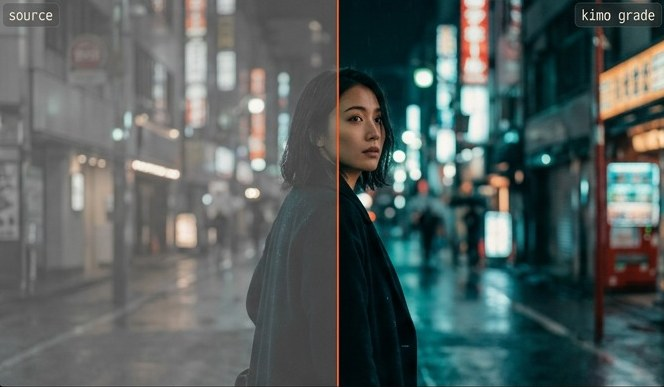
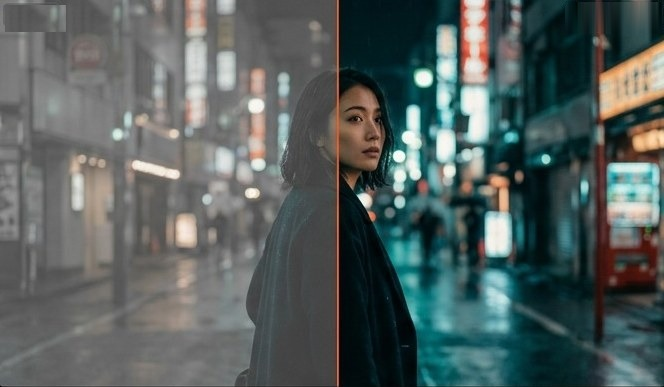
gui: m15 grading 1:1 (conic wheels, parade, nodes/thumbs) + live 3-way balance from grade calls; HUD tag names the screen

Changed region(s): [[0.8735, 0.0, 1.0, 0.093], [0.0, 0.0, 0.1205, 0.093]]

diff --git a/crates/kimo-gui/ui/panels.js b/crates/kimo-gui/ui/panels.js
@@ -126,6 +126,7 @@ function overlay(ov, w, h) {
       for (let i = 1; i < 8; i++) { const x = w * i / 8; s += line(Array.from({ length: 21 }, (_, j) => [x, h * j / 20])); }
       for (let i = 1; i < 6; i++) { const y = h * i / 6; s += line(Array.from({ length: 21 }, (_, j) => [w * j / 20, y])); }
     }
+    if (o.rect) { const [x, y, rw, rh] = o.rect; s += `<rect x="${px(x * w)}" y="${px(y * h)}" width="${px(rw * w)}" height="${px(rh * h)}" fill="none" stroke="var(--cream)" stroke-width="1.25" stroke-dasharray="5 3"/>` + (o.label ? `<text x="${px(x * w + 4)}" y="${px(y * h - 5)}" style="fill:var(--cream);font-family:var(--mono);font-size:11px">${E(o.label)}</text>` : ''); }
     if (o.crop) { const cw = w * o.crop, ch = h * o.crop; s += `<rect x="${px((w - cw) / 2)}" y="${px((h - ch) / 2)}" width="${px(cw)}" height="${px(ch)}" fill="none" stroke="var(--ember)" stroke-width="1.5" stroke-dasharray="6 4"/>`; }
     if (o.vline != null) s += `<line x1="${o.vline * w}" x2="${o.vline * w}" y1="0" y2="${h}" stroke="var(--ember)" stroke-width="2"/>`;
     if (o.quad && o.grid) {   // mesh tracker: the nx x ny lattice inside the quad (bilinear)
@@ -214,12 +215,12 @@ function kv({ spec, data, w, h }) {
 function block(b, w) {
   if (b.sec !== undefined) return `<div class="sec" ${b.h ? `style="height:${b.h}px"` : ''}>${E(b.sec)}</div>`;
   if (b.gap) return `<div style="height:${b.gap}px"></div>`;
-  if (b.list) return `<div class="list">${b.list.map((x, i) => `<div class="${i === b.sel ? 'sel' : ''}">${E(x)}</div>`).join('')}</div>`;
+  if (b.list) return `<div class="list">${b.list.map((x, i) => { const m = /^(\d+)\s+(.*)$/.exec(String(x)); return `<div class="${i === b.sel ? 'sel' : ''}">${m ? `<span class="n">${E(m[1])}</span>${E(m[2])}` : E(x)}</div>`; }).join('')}</div>`;
   if (b.code) return `<div class="code">${E(b.code)}</div>`;
   if (b.cap) return `<div class="cap"><span>${E(b.cap[0])}</span><span>${E(b.cap[1] || '')}</span></div>`;
   if (b.widget) return `<div class="widget${b.src ? ' img' : ''}" style="height:${b.h || 90}px${b.style ? ';' + b.style : ''}">${b.src ? `<img src="${E(b.src)}" alt="">` : (WIDGETS[b.widget] || (() => ''))(b, w, b.h || 90)}</div>`;
   if (b.html) return b.html;
-  const cls = ['row', b.from != null || b.ch ? 'ch' : '', b.chip ? 'chip' : '', b.emb ? 'emb' : '', b.bar ? 'bar' : ''].join(' ');
+  const cls = ['row', b.from != null || b.ch ? 'ch' : '', b.chip ? 'chip' : '', b.emb ? 'emb' : '', b.bar ? 'bar' : '', b.dim ? 'dim' : ''].join(' ');
   const v = b.from != null ? `<span class="from">${E(b.from)}</span><span class="arr">→</span>${E(b.v)}` : E(b.v);
   return `<div class="${cls}${F(b)}"${b.h ? ` style="height:${b.h}px"` : ''}><span class="k"${b.kStyle ? ` style="${b.kStyle}"` : ''}>${E(b.k)}</span><span class="v"${b.vStyle ? ` style="${b.vStyle}"` : ''}>${v}</span></div>`;
 }
@@ -285,9 +286,10 @@ const WIDGETS = {
     return `<svg viewBox="0 0 ${w} ${h}">${s}</svg>`;
   },
   thumbs(b, w, h) {
-    const n = b.items.length, gap = b.gap ?? 8, tw = (w - gap * (n - 1)) / n;
-    return `<div style="display:flex;gap:${gap}px;height:100%">` + b.items.map(t => `<div class="thumb ${t.sel ? 'sel' : ''}" style="flex:1;height:${t.label ? h - 18 : h}px">${t.src ? `<img src="${E(t.src)}">` : ''}</div>`).join('') + '</div>' +
-      (b.items.some(t => t.label) ? `<div style="display:flex;gap:${gap}px;margin-top:3px">${b.items.map(t => `<span style="flex:1;text-align:center;font-family:var(--mono);font-size:10.5px;color:var(--dim)">${E(t.label || '')}</span>`).join('')}</div>` : '');
+    const n = b.items.length, gap = b.tgap ?? 8, lh = b.labH ?? 18;   // items may carry their own width (m15: the selected clip is wider)
+    const W = t => t.w ? `flex:none;width:${t.w}px` : 'flex:1';
+    return `<div style="display:flex;gap:${gap}px;height:100%;align-items:flex-start">` + b.items.map(t => `<div class="thumb ${t.sel ? 'sel' : ''}" style="${W(t)};height:${t.h ?? (b.items.some(x => x.label) ? h - lh : h)}px">${t.src ? `<img src="${E(t.src)}">` : ''}</div>`).join('') + '</div>' +
+      (b.items.some(t => t.label) ? `<div style="display:flex;gap:${gap}px;position:absolute;left:0;right:0;bottom:0;height:${lh}px;align-items:center">${b.items.map(t => `<span style="${W(t)};text-align:center;font-family:var(--mono);font-size:var(--thl-fs,10.5px);color:var(--thl-c,var(--dim))">${E(t.label || '')}</span>`).join('')}</div>` : '');
   },
 };
 
@@ -741,27 +743,40 @@ function wheels({ spec, data, w, h }) {
   const o = spec.opts || {};
   const pw = o.paradeW ?? Math.round(w * .36);
   const ww = w - pw, n = (data.wheels || []).length || 3;
-  const r = o.r ?? Math.min(ww / n / 2 - 22, (h - 70) / 2);
+  const r = o.r ?? Math.min(ww / n / 2 - 22, (h - 70) / 2), sw = o.ringW ?? 3;
+  // ring: a conic sweep drawn as short arcs (SVG has no conic gradient); stops are [angle°, colour] counter-clockwise from 3 o'clock
+  const RING = [[0, '#bcbcde'], [45, '#cea8db'], [90, '#d8a9cd'], [135, '#e3c4c1'], [180, '#dbd4b8'], [225, '#c5e1bb'], [270, '#b6d8bf'], [315, '#abd0d6'], [360, '#bcbcde']];
+  const RINGE = [[0, '#dca98c'], [45, '#f99271'], [90, '#f3743d'], [135, '#f2ac7b'], [180, '#d8ca99'], [225, '#c1d397'], [270, '#bad09f'], [315, '#c7be9f'], [360, '#dca98c']];
+  const hex = c => [1, 3, 5].map(k => parseInt(c.slice(k, k + 2), 16));
+  const at = (st, a) => { let k = 0; while (k < st.length - 2 && st[k + 1][0] <= a) k++; const [a0, c0] = st[k], [a1, c1] = st[k + 1], t = (a - a0) / (a1 - a0), A = hex(c0), B = hex(c1); return `rgb(${A.map((v, j) => Math.round(v + (B[j] - v) * t)).join(',')})`; };
+  const conic = (cx, cy, st) => { let s = ''; const N = 72; for (let k = 0; k < N; k++) { const a0 = k * 360 / N, a1 = (k + 1.15) * 360 / N, P = a => [px(cx + Math.cos(a * Math.PI / 180) * r), px(cy - Math.sin(a * Math.PI / 180) * r)]; const [x0, y0] = P(a0), [x1, y1] = P(a1); s += `<path d="M${x0} ${y0}A${r} ${r} 0 0 0 ${x1} ${y1}" stroke="${at(st, (k + .5) * 360 / N)}"/>`; } return `<g fill="none" stroke-width="${sw}">${s}</g>`; };
   let s = `<defs><radialGradient id="whc" cx="50%" cy="50%" r="50%"><stop offset="0" stop-color="#1b1a19"/><stop offset="1" stop-color="#121211"/></radialGradient>
    <linearGradient id="ring" x1="0" y1="0" x2="1" y2="1"><stop offset="0" stop-color="#7a5ad8"/><stop offset=".35" stop-color="#3fa3a0"/><stop offset=".7" stop-color="#9fbf6a"/><stop offset="1" stop-color="#e8c79a"/></linearGradient>
    <linearGradient id="ringE" x1="0" y1="1" x2="1" y2="0"><stop offset="0" stop-color="#e8c79a"/><stop offset="1" stop-color="#ff5a23"/></linearGradient></defs>`;
-  (data.wheels || []).forEach((W, i) => {
-    const cx = ww / n * (i + .5), cy = (o.cy ?? (r + 34));
-    s += `<text x="${cx}" y="${o.labY ?? 18}" font-size="12" fill="var(--text)" text-anchor="middle">${E(W.name)}</text>`;
-    s += `<circle cx="${cx}" cy="${cy}" r="${r}" fill="url(#whc)" stroke="url(#${W.em ? 'ringE' : 'ring'})" stroke-width="3"/>`;
-    s += `<line x1="${cx - r + 8}" x2="${cx + r - 8}" y1="${cy}" y2="${cy}" stroke="#262624"/><line x1="${cx}" x2="${cx}" y1="${cy - r + 8}" y2="${cy + r - 8}" stroke="#262624"/>`;
+  const lfs = o.labFs ?? 12, vfs = o.valFs ?? 11.5;
+  const WH = data.wheels || [{ name: 'Lift', vals: ['0.00', '0.00', '0.00'] }, { name: 'Gamma', vals: ['0.00', '0.00', '0.00'] }, { name: 'Gain', vals: ['0.00', '0.00', '0.00'] }];   // neutral until a grade lands
+  WH.forEach((W, i) => {
+    const cx = o.cx ? o.cx[i] : ww / n * (i + .5), cy = (o.cy ?? (r + 34));
+    s += `<text x="${cx}" y="${o.labY ?? 18}" font-size="${lfs}" fill="var(--wl-c,var(--text))" text-anchor="middle">${E(W.name)}</text>`;
+    if (o.conic) s += `<circle cx="${cx}" cy="${cy}" r="${r}" fill="${o.disc ?? '#0e0e0e'}"/>` + conic(cx, cy, W.em ? RINGE : RING);
+    else s += `<circle cx="${cx}" cy="${cy}" r="${r}" fill="url(#whc)" stroke="url(#${W.em ? 'ringE' : 'ring'})" stroke-width="${sw}"/>`;
+    const ci = r - sw / 2 - (o.cross ?? 8);
+    s += `<line x1="${cx - ci}" x2="${cx + ci}" y1="${cy}" y2="${cy}" stroke="${o.crossC ?? '#262624'}"/><line x1="${cx}" x2="${cx}" y1="${cy - ci}" y2="${cy + ci}" stroke="${o.crossC ?? '#262624'}"/>`;
     const [dx, dy] = W.dot || [0, 0];
-    s += `<circle cx="${px(cx + dx * r)}" cy="${px(cy - dy * r)}" r="4" fill="${W.em ? 'var(--ember)' : 'var(--cream)'}"/>`;
-    if (W.ring != null) { const a = W.ring * Math.PI / 180; s += `<circle cx="${px(cx + Math.cos(a) * r)}" cy="${px(cy - Math.sin(a) * r)}" r="4.5" fill="var(--ember)"/>`; }
-    s += `<text x="${cx}" y="${cy + r + 22}" font-size="11.5" text-anchor="middle">` + W.vals.map((v, k) => `<tspan dx="${k ? 10 : 0}" fill="${(W.em && k === 0) ? 'var(--ember-text)' : (W.cols && W.cols[k]) || 'var(--text)'}">${E(v)}</tspan>`).join('') + '</text>';
+    s += `<circle cx="${px(cx + dx * r)}" cy="${px(cy - dy * r)}" r="${o.dotR ?? 4}" fill="${W.em ? 'var(--ember)' : 'var(--cream)'}"/>`;
+    if (W.ring != null) { const a = W.ring * Math.PI / 180; s += `<circle cx="${px(cx + Math.cos(a) * r)}" cy="${px(cy - Math.sin(a) * r)}" r="${o.knobR ?? 4.5}" fill="var(--ember)"${o.conic ? ' stroke="#0e0e0e" stroke-width="1.5"' : ''}/>`; }
+    s += `<text x="${cx}" y="${o.valY ?? (cy + r + 22)}" font-size="${vfs}" text-anchor="middle">` + W.vals.map((v, k) => `<tspan dx="${k ? (o.valGap ?? 10) : 0}" fill="${(W.em && k === 0) ? 'var(--ember-text)' : (W.cols && W.cols[k]) || 'var(--wv-c,var(--text))'}">${E(v)}</tspan>`).join('') + '</text>';
   });
-  // parade
-  const x0 = ww + 34, x1 = w - 12, y0 = o.py0 ?? 22, y1 = h - (o.pyb ?? 22);
-  s += `<line x1="${ww}" x2="${ww}" y1="14" y2="${h - 14}" stroke="var(--line)"/>`;
-  s += [1023, 768, 512, 256, 0].map((v, i) => `<text x="${x0 - 6}" y="${px(y0 + i * (y1 - y0) / 4 + 3)}" font-size="9.5" fill="var(--dim)" text-anchor="end">${v}</text><line x1="${x0}" x2="${x1}" y1="${px(y0 + i * (y1 - y0) / 4)}" y2="${px(y0 + i * (y1 - y0) / 4)}" stroke="#1a1a19"/>`).join('');
-  const cw = (x1 - x0) / 3;
-  const cols = ['#e2553f', '#5fbf6a', '#4f7fe0'], lifts = [.05, 0, -.04];
-  cols.forEach((c, k) => s += `<svg x="${x0 + k * cw + 3}" y="${y0}" width="${cw - 6}" height="${y1 - y0}">${lumaTrace(cw - 6, y1 - y0, 11 + k, c, .55, u => .42 + lifts[k] + .2 * Math.sin(u * 5 + k))}</svg>`);
+  // parade: the engine's scope image when the data carries one, else the drawn luma traces
+  const x0 = o.px0 ?? (ww + 34), x1 = w - (o.pxr ?? 12), y0 = o.py0 ?? 22, y1 = h - (o.pyb ?? 22);
+  if (!o.noSep) s += `<line x1="${ww}" x2="${ww}" y1="14" y2="${h - 14}" stroke="var(--line)"/>`;
+  if (data.parade && data.parade.src) s += `<image href="${E(data.parade.src)}" x="${x0}" y="${y0 - (o.imgPadT ?? 0)}" width="${x1 - x0}" height="${y1 - y0 + (o.imgPadT ?? 0) + (o.imgPadB ?? 0)}" preserveAspectRatio="none"/>`;
+  s += [1023, 768, 512, 256, 0].map((v, i) => `<text x="${x0 - (o.plabGap ?? 6)}" y="${px(y0 + i * (y1 - y0) / 4 + (o.plabDy ?? 3))}" font-size="${o.plabFs ?? 9.5}" fill="var(--dim)" text-anchor="end" style="font-family:var(--plab-font,inherit)">${v}</text>` + (data.parade && data.parade.src ? '' : `<line x1="${x0}" x2="${x1}" y1="${px(y0 + i * (y1 - y0) / 4)}" y2="${px(y0 + i * (y1 - y0) / 4)}" stroke="#1a1a19"/>`)).join('');
+  if (!(data.parade && data.parade.src)) {
+    const cw = (x1 - x0) / 3;
+    const cols = ['#e2553f', '#5fbf6a', '#4f7fe0'], lifts = [.05, 0, -.04];
+    cols.forEach((c, k) => s += `<svg x="${x0 + k * cw + 3}" y="${y0}" width="${cw - 6}" height="${y1 - y0}">${lumaTrace(cw - 6, y1 - y0, 11 + k, c, .55, u => .42 + lifts[k] + .2 * Math.sin(u * 5 + k))}</svg>`);
+  }
   return head(spec, data) + `<svg style="position:absolute;inset:0" width="${w}" height="${h}" viewBox="0 0 ${w} ${h}">${s}</svg>`;
 }
 

diff --git a/crates/kimo-gui/ui/router.js b/crates/kimo-gui/ui/router.js
@@ -17,7 +17,7 @@ export const FAMILIES = [
   ['edit', /^(cut|split|blade|razor|trim|extend|ripple|slip|slide|move_clip|delete_clip|lift|roll)/],
   ['effects', /^(add_effect|apply_effect|set_effect|add_transition|remove_effect|add_speed|set_posterize|add_adjustment)/],
   ['transform', /^(set_property|set_clip_property|set_props?$|transform|set_transform|keyframe|set_keyframe|add_keyframe|scale|rotate|position|set_motion|add_null|set_parent|set_expression)/],
-  ['color', /^(grade|color|colour|lut|apply_lut|set_lut|ocio|render_scope|analyze_exposure|wheel|curve|node_|hdr|render_ocio|render_exposure|render_gamut)/],
+  ['color', /^(grade|color|colour|lut|apply_lut|set_lut|ocio|render_scope|analyze_exposure|wheel|curve|node_|hdr|render_ocio|render_exposure|render_gamut|set_grade_node|set_grade_graph|pick_white_balance|match_grade|match_color|set_white_balance)/],
   ['audio', /^(set_|add_|apply_|auto_|measure_|normalize_|analyze_)?(mix|audio|gain|fader|mute|solo|pan|compress|eq|limiter|limit|loudness|duck|stem|bus|route_)|^track_beats$/],
   ['text', /^(caption|subtitle|add_caption|add_subtitle|edit_caption|transcript_edit|transcri|add_title|title|text|set_text|add_text|set_caption|validate_captions)/],
   ['3d', /^(add_mesh|mesh|model|extrude|bevel|light|camera|particle|emit|simulate|scene|render_3d|add_light|set_light|solve_camera|track|set_camera|add_scene3d|instantiate_gltf|generate_mesh_primitive|contour_sdf_graph|set_mesh_pin|derive_vertex_tangents|fit_track_homography|ecc_refine_track|decompose_track_homography|corner_disagreement|lk_residual_audit|validate_planar_track|undistort_clip|stabilize|apply_camera_solve|pin_layer|set_corner_pin)/],
@@ -99,8 +99,67 @@ function inspectorDiff(state, MODES, ev, fam) {
   return true;
 }
 
+
+// Grading (m15): the 3-way balance follows the call's own lift/gamma/gain numbers — color_wheels / grade
+// effects (lift_r…gain_b), grade-graph nodes carrying the same params, and engines that send lift/gamma/gain
+// directly. Each wheel's dot is its colour balance (channel deltas around the hue ring), the values are the
+// R/G/B deltas from neutral, and the wheel the call changed turns ember. White-balance picks and shot matches
+// draw the regions they sampled on the viewer.
+const WHEEL_DEF = { lift: 0, gamma: 1, gain: 1 };
+const HUE = { r: 100, g: 220, b: 340 };   // where each channel pulls on the ring (degrees, ccw from 3 o'clock)
+function gradeOps(state, MODES, ev) {
+  if (ev.phase !== 'complete') return false;
+  const P = ev.payload || {}, tn = String(ev.tool_name).toLowerCase();
+  const A = P.args || (state._gradeArgs && state._gradeArgs[ev.call_id]) || {};
+  const R = P.result && typeof P.result === 'object' ? P.result : {};
+  const prm = (A.params && typeof A.params === 'object' ? A.params : null) || (A.node && A.node.params) || A;
+  const kind = String(A.kind ?? (A.node && A.node.kind) ?? '').toLowerCase();
+  let hit = false;
+  const wheelMode = Object.entries(MODES).find(([, M]) => Object.values(M.panels).some(sp => sp.kind === 'wheels'));
+  if (wheelMode) {
+    const V = state.views[wheelMode[0]] || (state.views[wheelMode[0]] = {});
+    const key = Object.entries(MODES[wheelMode[0]].panels).find(([, sp]) => sp.kind === 'wheels')[0];
+    const B = V[key] || (V[key] = {});
+    const G = B._g || (B._g = { lift: { r: 0, g: 0, b: 0 }, gamma: { r: 1, g: 1, b: 1 }, gain: { r: 1, g: 1, b: 1 } });
+    let changed = null;
+    for (const w of ['lift', 'gamma', 'gain']) {
+      for (const c of ['r', 'g', 'b']) {
+        const v = numOf(prm[`${w}_${c}`]);
+        if (v != null) { G[w][c] = v; changed = w; }
+      }
+      const m = numOf(prm[w]);   // a master value: same delta on all three channels
+      if (m != null && (kind === '' || /grade|wheel|lgg|primar/.test(kind) || tn === 'grade')) {
+        const base = String(prm[w]).trim().match(/^[+-]/) ? WHEEL_DEF[w] + m : m;
+        for (const c of ['r', 'g', 'b']) G[w][c] = base; changed = w;
+      }
+    }
+    if (changed) {
+      const fmt = d => (d > 0.0049 ? '+' : d < -0.0049 ? '-' : '') + Math.abs(d).toFixed(2);
+      B.wheels = ['lift', 'gamma', 'gain'].map(w => {
+        const d = ['r', 'g', 'b'].map(c => G[w][c] - WHEEL_DEF[w]), mean = (d[0] + d[1] + d[2]) / 3;
+        let x = 0, y = 0; ['r', 'g', 'b'].forEach((c, k) => { const a = HUE[c] * Math.PI / 180; x += (d[k] - mean) * Math.cos(a); y += (d[k] - mean) * Math.sin(a); });
+        const mag = Math.hypot(x, y), k = Math.min(.82, mag * 6) / (mag || 1);
+        const em = w === changed;
+        return { name: w[0].toUpperCase() + w.slice(1), dot: [x * k, y * k], em, ring: em && Math.abs(mean) > 1e-6 ? (mean > 0 ? 70 : 250) : null, vals: d.map(fmt) };
+      });
+      B._flash = now(); hit = true;
+    }
+  }
+  // regions the call sampled: the neutral patch of a white-balance pick, the source/reference of a match
+  const [mode, V2] = modeViews(state, MODES, ev);
+  const vw = V2.viewer || (V2.viewer = {});
+  const box = (r, label) => Array.isArray(r) && r.length === 4 && r.every(v => numOf(v) != null) ? { rect: r.map(numOf), label } : null;
+  const regs = [];
+  if (tn === 'pick_white_balance' && [A.x, A.y, A.w, A.h].every(v => numOf(v) != null)) regs.push(box([A.x, A.y, A.w, A.h], 'neutral'));
+  if (tn === 'match_grade' || tn === 'match_color') { const s1 = box(A.source_region, 'source'), s2 = box(A.ref_region, A.ref_clip_id ? `ref · ${A.ref_clip_id}` : 'ref'); if (s1) regs.push(s1); if (s2) regs.push(s2); }
+  if (regs.length) { vw.overlay = (vw.overlay || []).filter(o => o._kind !== tn).concat(regs.filter(Boolean).map(o => ({ ...o, _call: ev.call_id, _kind: tn }))); hit = true; }
+  if ((tn === 'match_grade' || tn === 'match_color' || tn === 'pick_white_balance') && !regs.length) { vw.wipe = 1; hit = true; }
+  return hit;
+}
+
 function hud(state, ev, fam, text) {
-  state.hud = { fam, tool: ev.tool_name, text: text || ev.tool_name, phase: ev.phase, t: now() };
+  const shown = fam === 'inspect' ? fam : ((state.explicitMode ? null : inferMode(String(ev.tool_name))) || state.mode || fam);   // the tag names the screen, not the router family
+  state.hud = { fam: shown, family: fam, tool: ev.tool_name, text: text || ev.tool_name, phase: ev.phase, t: now() };
 }
 
 // Timeline effects of edit / ingest / effects / audio / text tools.
@@ -354,6 +413,8 @@ export function route(ev, state, MODES) {
   if (fam === 'inspect') return inspectOps(state, MODES, ev, id);
   if (fam === 'transform' && (ev.phase === 'start' || ev.phase === 'complete')) xfOps(state, MODES, ev);
   if (fam === '3d') sceneOps(state, MODES, ev);
+  if (ev.phase === 'start' && (fam === 'color' || fam === 'effects')) (state._gradeArgs || (state._gradeArgs = {}))[ev.call_id] = (ev.payload || {}).args || {};
+  if ((fam === 'color' || fam === 'effects') && gradeOps(state, MODES, ev)) ev._gradeDone = true;
   const T = ev.target || {}, P = ev.payload || {};
   const param = T.param || P.param, val = P.to ?? P.value;
   const args = { ...(T.clip_id ? { clip: T.clip_id } : {}), ...(param && val != null ? { [param]: fmtVal(val, param) } : {}) };

diff --git a/crates/kimo-gui/ui/modes.js b/crates/kimo-gui/ui/modes.js
@@ -64,9 +64,9 @@ export const MODES = {
       res: { kind: 'keys', title: 'Track residual', opts: { x0: 203, xr: 15, rulerY: 10, graphY: 36, graphH: 78.5, laneY: 120, laneH: 44, chipX: 56, chipW: 122, barH: 16 } } } },
   modelling: { activity: 'modelling', top: 46, foot: 0,
     vars: { '--radius': '8px', '--panel': '#141412', '--ph-pad': '16px 15px 0 15px', '--pt-fs': '18px', '--sub-top': '43px', '--sub-fs': '18px', '--sub-c': '#7e7e79',
-      '--call-fs': '16.4px', '--call-ls': '0em', '--call-line': 'transparent', '--empty-pp': 'none', '--call-pl': '14px', '--call-pr': '17px', '--call-gap': '13px', '--ck-c': 'var(--cream)', '--ck-fs': '19px', '--ck-w': '18px',
+      '--call-fs': '16.4px', '--call-ls': '0em', '--empty-pp': 'none', '--call-pl': '14px', '--call-pr': '17px', '--call-gap': '13px', '--ck-c': 'var(--cream)', '--ck-fs': '19px', '--ck-w': '18px',
       '--fn': 'var(--cream)', '--args': 'var(--cream)', '--dur-fs': '16px', '--dur-w': '4ch', '--cur-text': '#dc9e82', '--cur-args': '#dc9e82', '--cur-dur': '#c4765e',
-      '--kv-fs': '18.4px', '--kv-row': '31.5px', '--klabel': 'var(--cream)', '--sec-fs': '18px', '--sec-h': '45px', '--sec-pb': '8px', '--vmeta-font': 'var(--sans)', '--vmeta-fs': '17.5px', '--res-fs': '17.5px' },
+      '--kv-fs': '18.4px', '--kv-row': '31.5px', '--klabel': 'var(--cream)', '--sec-fs': '18px', '--sec-h': '45px', '--sec-pb': '8px', '--vmeta-font': 'var(--sans)', '--vmeta-fs': '17.5px', '--res-fs': '17.5px', '--ember-text': '#c98a78' },
     rects: { agent: [12, 55, 377, 330], stack: [12, 357, 377, 758], viewer: [388, 55, 1074, 580], insp: [1084, 55, 1363, 580], prof: [388, 592, 1363, 758] },
     panels: { agent: AG({ rowH: 35, top: 53 }), stack: { kind: 'stack', title: 'Stack', opts: { center: true, y0: 62, step: 59, nodeH: 34, fs: 16.5 } },
       viewer: { kind: 'viewer', opts: { pad: [0, 0, 0, 0], metaY: 495, metaL: 16, metaR: 19 } }, insp: { kind: 'kv', title: 'Inspector', opts: { secRule: true, top: 77.5 } },
@@ -88,17 +88,19 @@ export const MODES = {
     rects: { agent: [10, 55, 377, 480], viewer: [387, 55, 1070, 480], insp: [1080, 55, 1365, 741], keys: [10, 489, 1070, 741] },
     panels: { agent: AG({ count: true }), viewer: { kind: 'viewer', opts: { pad: [12, 12, 42, 12] } }, insp: { kind: 'kv', title: 'Inspector' },
       keys: { kind: 'keys', title: 'Mask keys', opts: { x0: 214, rulerY: 10, laneY: 42, laneH: 44, chipX: 56, chipW: 148 } } } },
-  scene3d: { activity: 'animating', top: 56, foot: 0, rightCls: 'big', vars: { '--brand-fs': '20px', '--proj-fs': '17px', '--logo': '26px' },
+  scene3d: { activity: 'animating', top: 56, foot: 0, rightCls: 'big', vars: { '--brand-fs': '20px', '--proj-fs': '17px', '--logo': '26px', '--chip-bg': 'transparent', '--chip-fs': '16px', '--chip-h': '30px', '--chip-px': '0px' },
     rects: { agent: [14, 66, 329, 290], scene: [14, 305, 329, 548], viewer: [344, 66, 1080, 505], insp: [1095, 66, 1360, 548], keys: [14, 563, 1360, 756] },
     panels: { agent: AG(), scene: { kind: 'tree', title: 'Scene' }, viewer: { kind: 'viewer', opts: { pad: [0, 0, 0, 0] } }, insp: { kind: 'kv', title: 'Inspector' },
-      keys: { kind: 'keys', title: 'Keyframes', opts: { x0: 350, rulerY: 58, laneY: 80, laneH: 34, stripY: 8, stripH: 46, chipW: 0 } } } },
+      keys: { kind: 'keys', title: 'Keyframes', opts: { x0: 350, rulerY: 58, laneY: 80, laneH: 34, stripY: 8, stripH: 46, chipX: 14, chipW: 310 } } } },
   export: { activity: 'rendering', top: 44, foot: 0, rightCls: 'chipclock',
     rects: { agent: [11, 50, 345, 759], viewer: [357, 50, 1051, 535], exp: [1063, 50, 1364, 535], renders: [357, 547, 1364, 759] },
     panels: { agent: AG({ checkRight: true }), viewer: { kind: 'viewer', opts: { pad: [10, 10, 166, 10], thumbY: 400, thumbH: 60 } }, exp: { kind: 'kv', title: 'Export', opts: { lines: true } },
       renders: { kind: 'renders', title: 'Renders' } } },
   grading: { activity: 'grading', top: 48, foot: 0, cls: 'lab-mono',
+    vars: { '--title-font': 'var(--sans)', '--pt-fs': '19px', '--call-fs': '15.6px', '--call-ls': '-0.07em', '--kv-row': '39.5px', '--ch-label': 'var(--ember-text)', '--li-h': '39.2px', '--li-fs': '15.5px', '--li-c': 'var(--cream)', '--list-border': '0', '--list-sep': 'var(--line2)', '--li-sel-r': '5px', '--thl-fs': '14px', '--thl-c': 'var(--cream)', '--wl-c': 'var(--cream)', '--wv-c': 'var(--cream)', '--sec-line': 'transparent', '--line2': '#272725', '--call-line': 'transparent', '--klabel': 'var(--cream)', '--kv-fs': '16px', '--sec-font': 'var(--mono)', '--grade-title-font': 'var(--mono)', '--plab-font': 'var(--sans)', '--tag-font': 'var(--mono)', '--tag-fs': '12.5px', '--tag-h': '21px', '--tag-px': '6px', '--tag-r': '4px', '--tag-bg': 'rgba(70,70,66,.62)', '--call-pl': '12px' },
     rects: { agent: [10, 60, 392, 505], viewer: [404, 60, 1094, 505], grade: [1106, 60, 1364, 759], bottom: [10, 516, 1094, 759] },
-    panels: { agent: AG(), viewer: { kind: 'viewer', opts: { pad: [12, 12, 44, 12] } }, grade: { kind: 'kv', title: 'Grade' }, bottom: { kind: 'wheels' } } },
+    panels: { agent: AG({ rowH: 38.6, top: 36.8 }), viewer: { kind: 'viewer', opts: { pad: [9, 8, 46, 8] } }, grade: { kind: 'kv', title: 'Grade', opts: { lines: true, topLine: true, top: 71 } },
+      bottom: { kind: 'wheels', opts: { conic: true, noSep: true, cx: [115.5, 341.4, 568.5], cy: 119.2, r: 64.5, ringW: 8.5, labY: 32.8, labFs: 18, valY: 224.2, valFs: 15.5, valGap: 9, dotR: 8, knobR: 9, cross: 6, crossC: '#34342f', px0: 734.4, pxr: 1.1, py0: 22.3, pyb: 20.2, imgPadT: 6.4, imgPadB: 6.6, plabGap: 9, plabFs: 14, plabDy: 5 } } } },
 };
 
 // Engines that do not announce a mode still drive the view: the tool name

diff --git a/crates/kimo-gui/ui/app.css b/crates/kimo-gui/ui/app.css
@@ -112,7 +112,7 @@ body{color:var(--cream);font-family:var(--sans);font-size:var(--fs);
 .frame img{position:absolute;inset:0;width:100%;height:100%;object-fit:cover;display:block}
 .frame .ph-frame{position:absolute;inset:0;background:repeating-linear-gradient(135deg,#121211 0 8px,#0f0f0e 8px 16px)}
 .frame svg.ov{position:absolute;inset:0;width:100%;height:100%}
-.tag{position:absolute;padding:0 11px;height:30px;line-height:30px;border-radius:6px;background:rgba(78,74,68,.86);
+.tag{position:absolute;padding:0 var(--tag-px,11px);height:var(--tag-h,30px);line-height:var(--tag-h,30px);border-radius:var(--tag-r,6px);background:var(--tag-bg,rgba(78,74,68,.86));
   color:var(--cream);font-family:var(--tag-font,var(--sans));font-size:var(--tag-fs,16px);white-space:nowrap}
 .vmeta{position:absolute;left:14px;right:14px;height:22px;display:flex;align-items:center;font-size:var(--vmeta-fs,var(--fs-s));color:var(--dim);font-family:var(--vmeta-font,var(--mono))}
 .vmeta .tc{position:absolute;left:50%;transform:translateX(-50%);font-family:var(--mono);font-weight:var(--tc-w,600);color:var(--tc-c,var(--cream));font-size:var(--tc-fs,17px)}
@@ -126,7 +126,7 @@ body{color:var(--cream);font-family:var(--sans);font-size:var(--fs);
 
 /* ---------- inspector key/value ---------- */
 .kv{position:absolute;inset:0;padding:0 15px;overflow:hidden}
-.kv .sec{height:var(--sec-h,48px);display:flex;align-items:flex-end;padding-bottom:var(--sec-pb,9px);font-weight:600;font-size:var(--sec-fs,17px);color:var(--cream);font-family:var(--title-font,var(--sans))}
+.kv .sec{height:var(--sec-h,48px);display:flex;align-items:flex-end;padding-bottom:var(--sec-pb,9px);font-weight:600;font-size:var(--sec-fs,17px);color:var(--cream);font-family:var(--sec-font,var(--title-font,var(--sans)))}
 .kv .row{height:var(--kv-row,37px);display:flex;align-items:center;justify-content:space-between;white-space:nowrap;font-size:var(--kv-fs,16px)}
 /* a long value ("960 x 540 → 1080 x 1080", an output path) keeps a gap to its label and ellipsizes only at the panel edge */
 .kv .row{gap:14px} .kv .row .k{flex:none} .kv .row .v{min-width:0;overflow:hidden;text-overflow:ellipsis}
@@ -140,7 +140,7 @@ body{color:var(--cream);font-family:var(--sans);font-size:var(--fs);
 .kv .row.emb .v{color:var(--ember-text)}
 .kv .row.bar{position:relative}
 .kv .row.bar::before{content:"";position:absolute;left:-15px;top:4px;bottom:4px;width:3px;background:var(--ember)}
-.kv .list{border:1px solid var(--line);border-radius:5px;overflow:hidden;margin:4px 0}
+.kv .list{border:var(--list-border,1px solid var(--line));border-radius:5px;overflow:hidden;margin:4px 0}
 .kv .list div{height:var(--li-h,26px);display:flex;align-items:center;padding:0 10px;font-family:var(--li-font,var(--mono));font-size:var(--li-fs,12px);color:var(--li-c,var(--text))}
 .kv .list div.sel{background:var(--raise2);color:var(--cream)}
 .kv .code{background:var(--raise);border-radius:5px;padding:var(--code-pad,9px 11px);font-family:var(--mono);font-size:var(--code-fs,12px);line-height:var(--code-lh,18px);color:var(--cream);white-space:pre;margin:2px 0 4px}
@@ -286,3 +286,8 @@ body.calls-sans{--call-font:var(--sans)}
 .sig.noargs .pp{display:var(--empty-pp,inline)}
 .kv .widget.img{border:0;background:none;margin:var(--wimg-m,4px 0)} .kv .widget.img img{display:block;width:100%;height:100%;object-fit:cover}
 .kv .cap b{color:var(--cream);font-weight:400}
+.kv .list div+div{box-shadow:inset 0 1px 0 var(--list-sep,transparent)} .kv .list div.sel{border-radius:var(--li-sel-r,0);box-shadow:none} .kv .list div.sel+div{box-shadow:none}
+.kv .list .n{color:var(--dim);margin-right:12px}
+.kv .row.ch .k{color:var(--ch-label,var(--klabel,var(--text)))} .kv .row.dim .k{color:var(--dim)}
+.kv .widget{position:relative}
+[data-panel=grade] .ph .t{font-family:var(--grade-title-font,var(--title-font,var(--sans)))}

diff --git a/crates/kimo-gui/demo/build_scenarios.py b/crates/kimo-gui/demo/build_scenarios.py
@@ -234,11 +234,11 @@ scen("m15", "grading", "dune_film.kimo", "codex", hms("00:14:02"),
   [["import_media", ["neon_walk.mov"], 400], ["trim", ["clip_07", {"out": "00:04.20"}], 100], ["analyze_frame", ["clip_07"], 600], ["match_shot", ["clip_07", {"ref": "clip_06"}], 900],
    ["set_white_balance", ["clip_07", "5600K"], 100], ["grade", ["clip_07", {"lift": "-0.02"}], 100], ["grade", ["clip_07", {"gamma": "+0.01"}], 100], ["grade", ["clip_07", {"sat": "1.10"}], 100], ["grade", ["clip_07", {"gain": "+0.06"}], 1200]],
   {"agent": {"footer": "following grade"},
-   "viewer": {"src": F("m15"), "tags": [{"text": "source"}, {"text": "kimo grade", "pos": "tr"}], "tc": "01:00:42:19"},
-   "grade": {"sub": "clip_07  neon_walk", "blocks": [K("Temperature", "5600K"), K("Tint", "-3"), K("Contrast", "1.14"), K("Pivot", "0.435"), K("Saturation", "1.10"), K("Gain", "+0.06", ch=True), K("Highlights", "-12"), K("Shadows", "+6"),
-             S("Nodes"), {"list": ["01  balance", "02  contrast", "03  look"], "sel": 2}, {"widget": "thumbs", "h": 70, "style": "border:none;background:none", "items": [{"src": F("m15_t1")}, {"src": F("m15_t2"), "sel": True, "label": "clip_07"}, {"src": F("m15_t3")}]}]},
-   "bottom": {"wheels": [{"name": "Lift", "dot": [-.12, .05], "vals": ["-0.02", "0.00", "+0.03"]}, {"name": "Gamma", "dot": [.05, .02], "vals": ["+0.01", "0.00", "-0.01"], "cols": [None, None, "#6f8fe0"]},
-                         {"name": "Gain", "em": True, "dot": [0, 0], "ring": 45, "vals": ["+0.06", "+0.04", "+0.02"]}]}})
+   "viewer": {"src": F("m15"), "tags": [{"text": "source", "x": 8, "y": 8}, {"text": "kimo grade", "pos": "tr", "x": 8, "y": 8}], "tc": "01:00:42:19"},
+   "grade": {"sub": "clip_07  neon_walk", "blocks": [K("Temperature", "5600K"), K("Tint", "-3", dim=True), K("Contrast", "1.14"), K("Pivot", "0.435"), K("Saturation", "1.10"), K("Gain", "+0.06", ch=True), K("Highlights", "-12"), K("Shadows", "+6"),
+             S("Nodes", h=58), {"list": ["01  balance", "02  contrast", "03  look"], "sel": 2}, {"widget": "thumbs", "h": 104, "tgap": 9.5, "labH": 24, "style": "border:none;border-top:1px solid var(--line);border-radius:0;background:none;margin:12px -15px 0;padding:13px 0 0 10px", "items": [{"src": F("m15_t1"), "w": 69, "h": 56.4}, {"src": F("m15_t2"), "sel": True, "label": "clip_07", "w": 99.2, "h": 57.4}, {"src": F("m15_t3"), "w": 64, "h": 56.4}]}]},
+   "bottom": {"parade": {"src": F("m15_parade")}, "wheels": [{"name": "Lift", "dot": [0, 0], "vals": ["-0.02", "0.00", "+0.03"]}, {"name": "Gamma", "dot": [0, 0], "vals": ["+0.01", "0.00", "-0.01"], "cols": [None, None, "#6f8fe0"]},
+                         {"name": "Gain", "em": True, "dot": [0, 0], "ring": 70, "vals": ["+0.06", "+0.04", "+0.02"]}]}})
 
 for s in SC:
     s["order"] = int(s["id"][1:])
